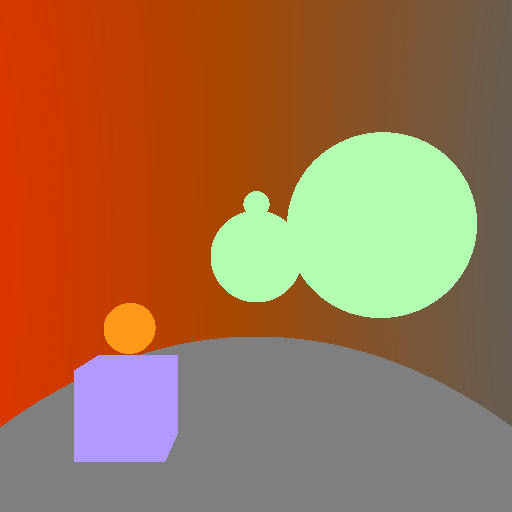
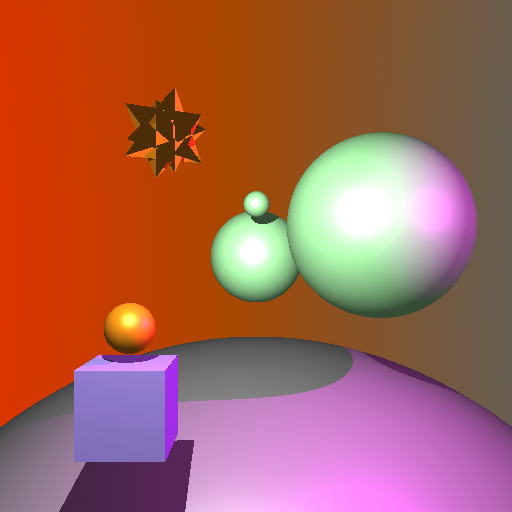
A4: Anti-Aliasing added

diff --git a/A4.cpp b/A4.cpp
@@ -11,8 +11,27 @@
 using namespace std;
 using namespace glm;
 
+#define ANTI_ALIASING 1
+
 static const float EPS = 0.000001; // correction factor
 static const float MAX_RGB = 255.0f; // maximum rgb value
+static const float MAX_T = numeric_limits<float>::max();// max t distance
+
+float rand_float(){
+	return (float) rand()/(RAND_MAX +1.0);
+}
+
+vec3 randUnitVector(){
+	vec3 randVec;
+	do{
+		randVec.x = rand_float();
+		randVec.y = rand_float();
+		randVec.z = 0.0f;
+
+	}while(length(randVec) >= 1.0f);
+	return randVec;
+}
+
 
 vec3 rayTraceRGB(
 	// What to render  
@@ -30,9 +49,7 @@ vec3 rayTraceRGB(
 	
 
 	// TODO: EPS acts as minimum, check if valid enough
-	if(root->isHit(ray, EPS, numeric_limits<float>::max(),record)){
-
-	
+	if(root->isHit(ray, EPS, MAX_T,record)){
 		// Hit happened
 		// TODO: handle hit
 
@@ -40,12 +57,34 @@ vec3 rayTraceRGB(
 		record.hitPointVec += record.normalVec * EPS;
 
 		PhongMaterial *material = static_cast<PhongMaterial *>(record.material);
-
-		returnColor += material->getDiffuse();
-		// TODO:: Add ambient light
 		
+		// Add ambience 
+		returnColor += material->getDiffuse() * ambient;
+		
+		for (Light * light : lights){
+			RayTracer shadeRay;
+			shadeRay.setOrigin(record.hitPointVec);
+			shadeRay.setDirection(light->position - record.hitPointVec);
 
-		// TODO: handlle lights and shadows
+			HitRecord shadeRecord;
+
+			if(root->isHit(shadeRay, EPS,MAX_T,shadeRecord)){
+				// Shaderay hits an object, no need for light 
+				continue;
+			}
+
+			vec3 L = normalize(shadeRay.getDirection());// vector pointing towards light from hitPoint
+			vec3 V = normalize(eye - record.hitPointVec); // vector pointing towards eye from hitPoint
+			vec3 N = normalize(record.normalVec);// normal vector at hitPoint
+			vec3 H = normalize(V + L);// half vector, bisecting vector
+			
+			// Add diffuse
+			returnColor += std::max(0.0, (double)dot(N,L)) * material->getDiffuse() * light->colour;
+
+			// Add specular 
+			returnColor += pow(std::max(0.0, (double)dot(N,H)),material->getShininess()) *
+						   material->getSpecular() * light->colour;
+		}
 
 	}else{
 		// Miss happened
@@ -116,7 +155,7 @@ void A4_Render(
 	// loop through each pixel and peform ray tracing on each one
 	for (uint y = 0; y < h; ++y) {
 		for (uint x = 0; x < w; ++x) {
-			// TODO: add per pixel actions here
+			// Per pixel actions here
 			// Get corresponding direction for pixel
 			const vec3 dirVec = initDirVec + (float)(w-x) * uVec + (float)(y) * vVec;
 
@@ -128,16 +167,19 @@ void A4_Render(
 			// Initialize Color
 			vec3 pixelColorVec(0.0f,0.0f,0.0f);
 
-			// TODO: possibly do anti-aliasing
-
-
-			// TODO: ray trace the color
-			// TODO: check if addition is necessary
-			pixelColorVec += rayTraceRGB(root,ray,eye,ambient,lights);
+			// Anti-Aliasing
+			if (ANTI_ALIASING >= 1 ){
+				size_t samplesPerPixel = 15;
+				for (int i =0;i < samplesPerPixel;++i){
+					ray.setDirection(dirVec + randUnitVector() * (uVec +vVec) * 0.5);
+					pixelColorVec += rayTraceRGB(root,ray,eye,ambient,lights);
+				}
+				pixelColorVec = pixelColorVec/samplesPerPixel;
+				
+			}else{
+				pixelColorVec += rayTraceRGB(root,ray,eye,ambient,lights);
+			}
 			
-		
-			// TODO: change from white default ie remove 
-			// pixelColorVec = vec3(1.0f,1.0f,1.0f); // makes it white
 			// Red: 
 			image(x, y, 0) = (double)pixelColorVec.r;
 			// Green: 

diff --git a/Mesh.cpp b/Mesh.cpp
@@ -17,6 +17,7 @@ Mesh::Mesh( const std::string& fname )
 	: m_vertices()
 	, m_faces()
 {
+	cout << "initialized mesh Mesh(fname) entered"<<endl;
 	std::string code;
 	double vx, vy, vz;
 	size_t s1, s2, s3;
@@ -31,6 +32,8 @@ Mesh::Mesh( const std::string& fname )
 			m_faces.push_back( Triangle( s1 - 1, s2 - 1, s3 - 1 ) );
 		}
 	}
+
+	cout << "initialized mesh Mesh(fname) exited"<<endl;
 }
 
 std::ostream& operator<<(std::ostream& out, const Mesh& mesh)

diff --git a/Mesh.hpp b/Mesh.hpp
@@ -13,7 +13,7 @@
 // Use this #define to selectively compile your code to render the
 // bounding boxes around your mesh objects. Uncomment this option
 // to turn it on.
-//#define RENDER_BOUNDING_VOLUMES
+#define RENDER_BOUNDING_VOLUMES 1
 
 struct Triangle
 {
